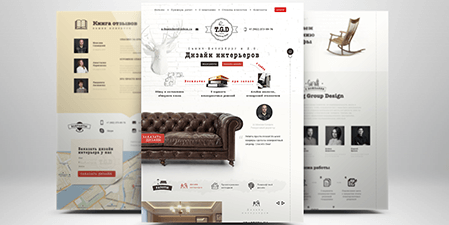
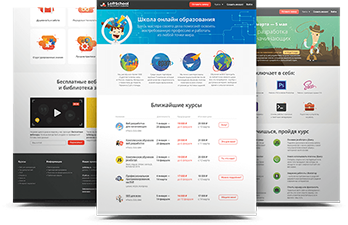
works

diff --git a/source/style/style_about.scss b/source/style/style_about.scss
@@ -608,6 +608,79 @@
 	};
 }
 
+.main-works_examples-right_view {
+	@media screen and (min-width: 1200px) {
+		max-width: 605px;
+	};
+
+	@media screen and (max-width: 1200px) {
+		max-width: 450px
+	};
+
+	@media screen and (max-width: 768px) {
+		max-width: 562px
+	};
+
+	@media screen and (max-width: 320px) {
+		max-width: 236px
+	};
+}
+
+.work-example-big {
+	width: 100%;
+}
+
+.main-works_examples-right_up-down {
+	@include clearfix;
+}
+
+.main-works_examples-right_up-down_left {
+	display: inline-block;
+	float: left;
+	width: 50%;
+	@media screen and (min-width: 1200px) {
+		max-width: 348px;
+	};
+
+	@media screen and (max-width: 1200px) {
+		max-width: 280px
+	};
+
+	@media screen and (max-width: 768px) {
+		max-width: 280px
+	};
+
+	@media screen and (max-width: 320px) {
+		max-width: 116px
+	};
+}
+
+.main-works_examples-right_up-down_right {
+	display: inline-block;
+	float: right;
+	width: 50%;
+	@media screen and (min-width: 1200px) {
+		max-width: 348px;
+	};
+
+	@media screen and (max-width: 1200px) {
+		max-width: 280px
+	};
+
+	@media screen and (max-width: 768px) {
+		max-width: 280px
+	};
+
+	@media screen and (max-width: 320px) {
+		max-width: 116px
+	};
+}
+
+.work-example-small {
+	width: 100%;
+}
+
+
 .examples-left-wrapper {
   position: absolute;
   top: 50%;
